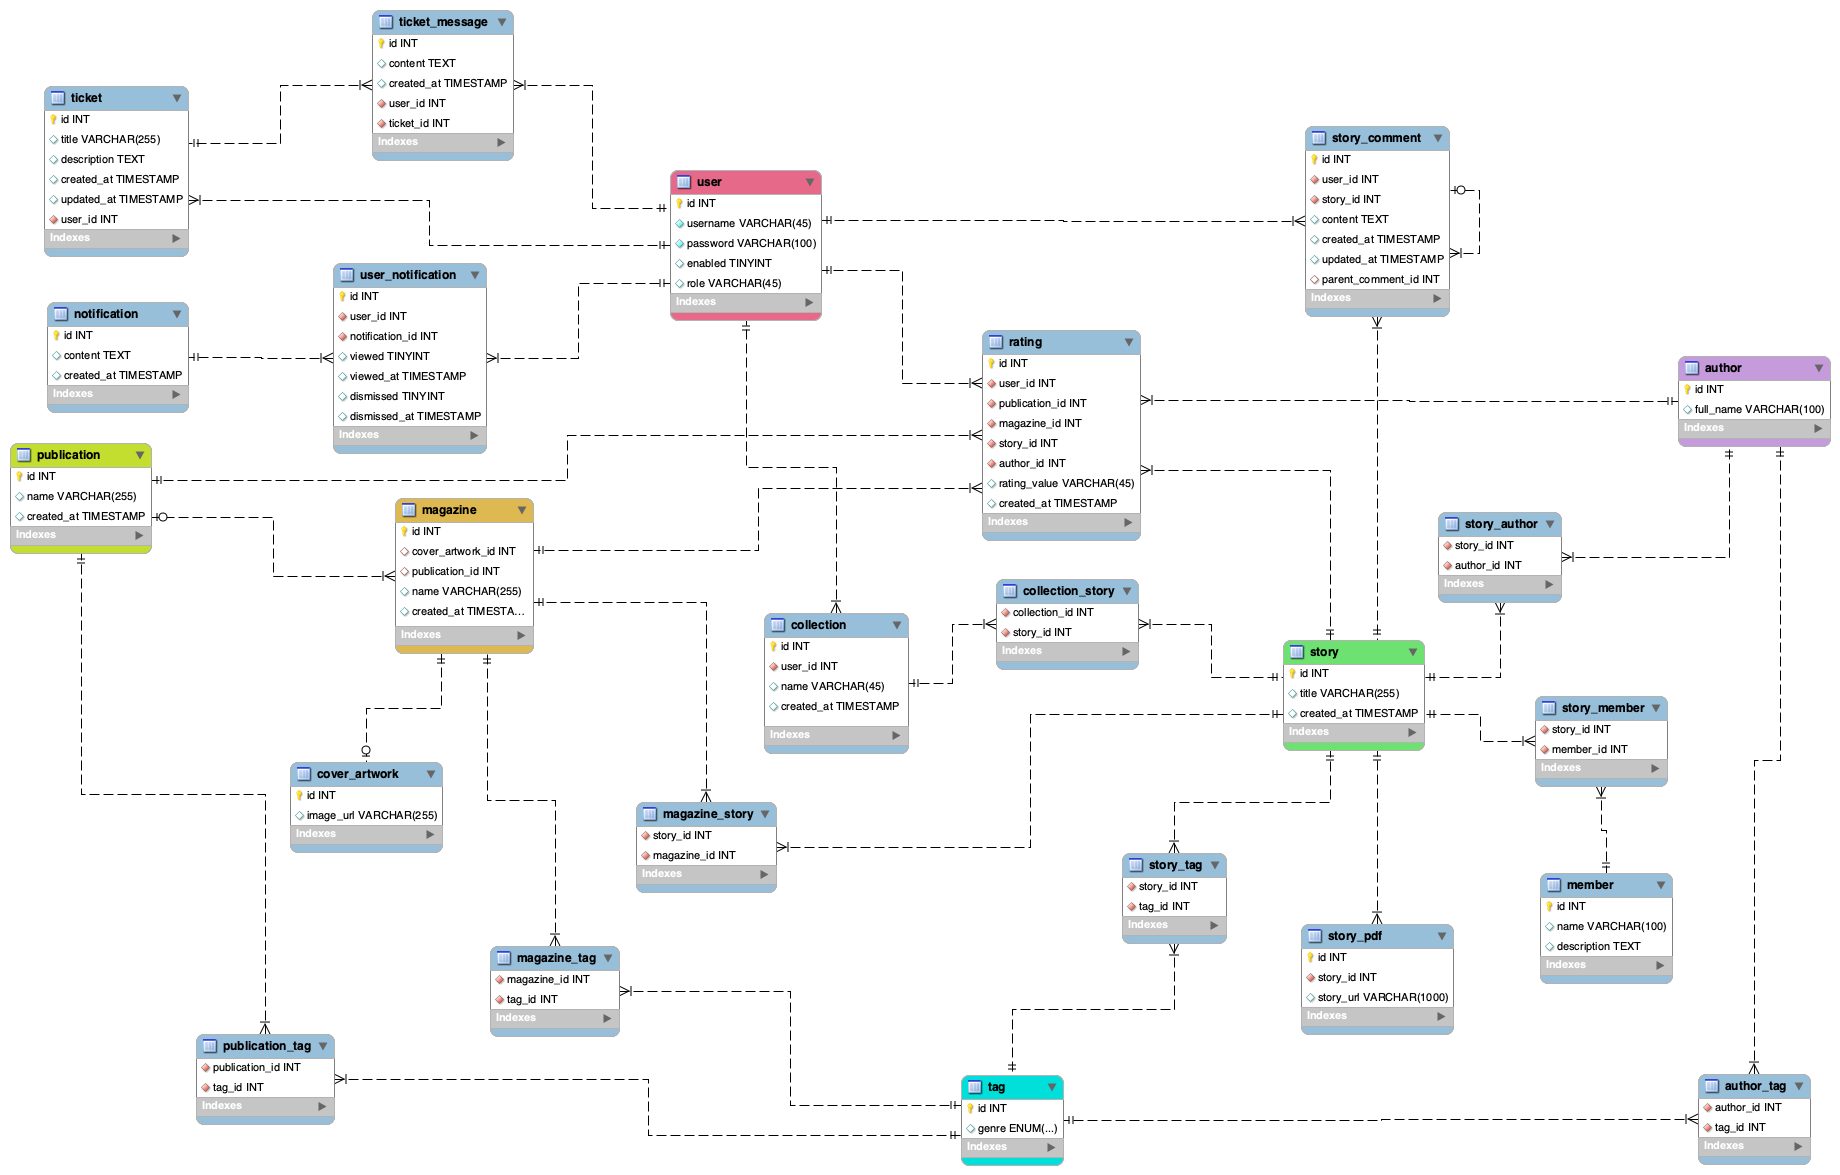
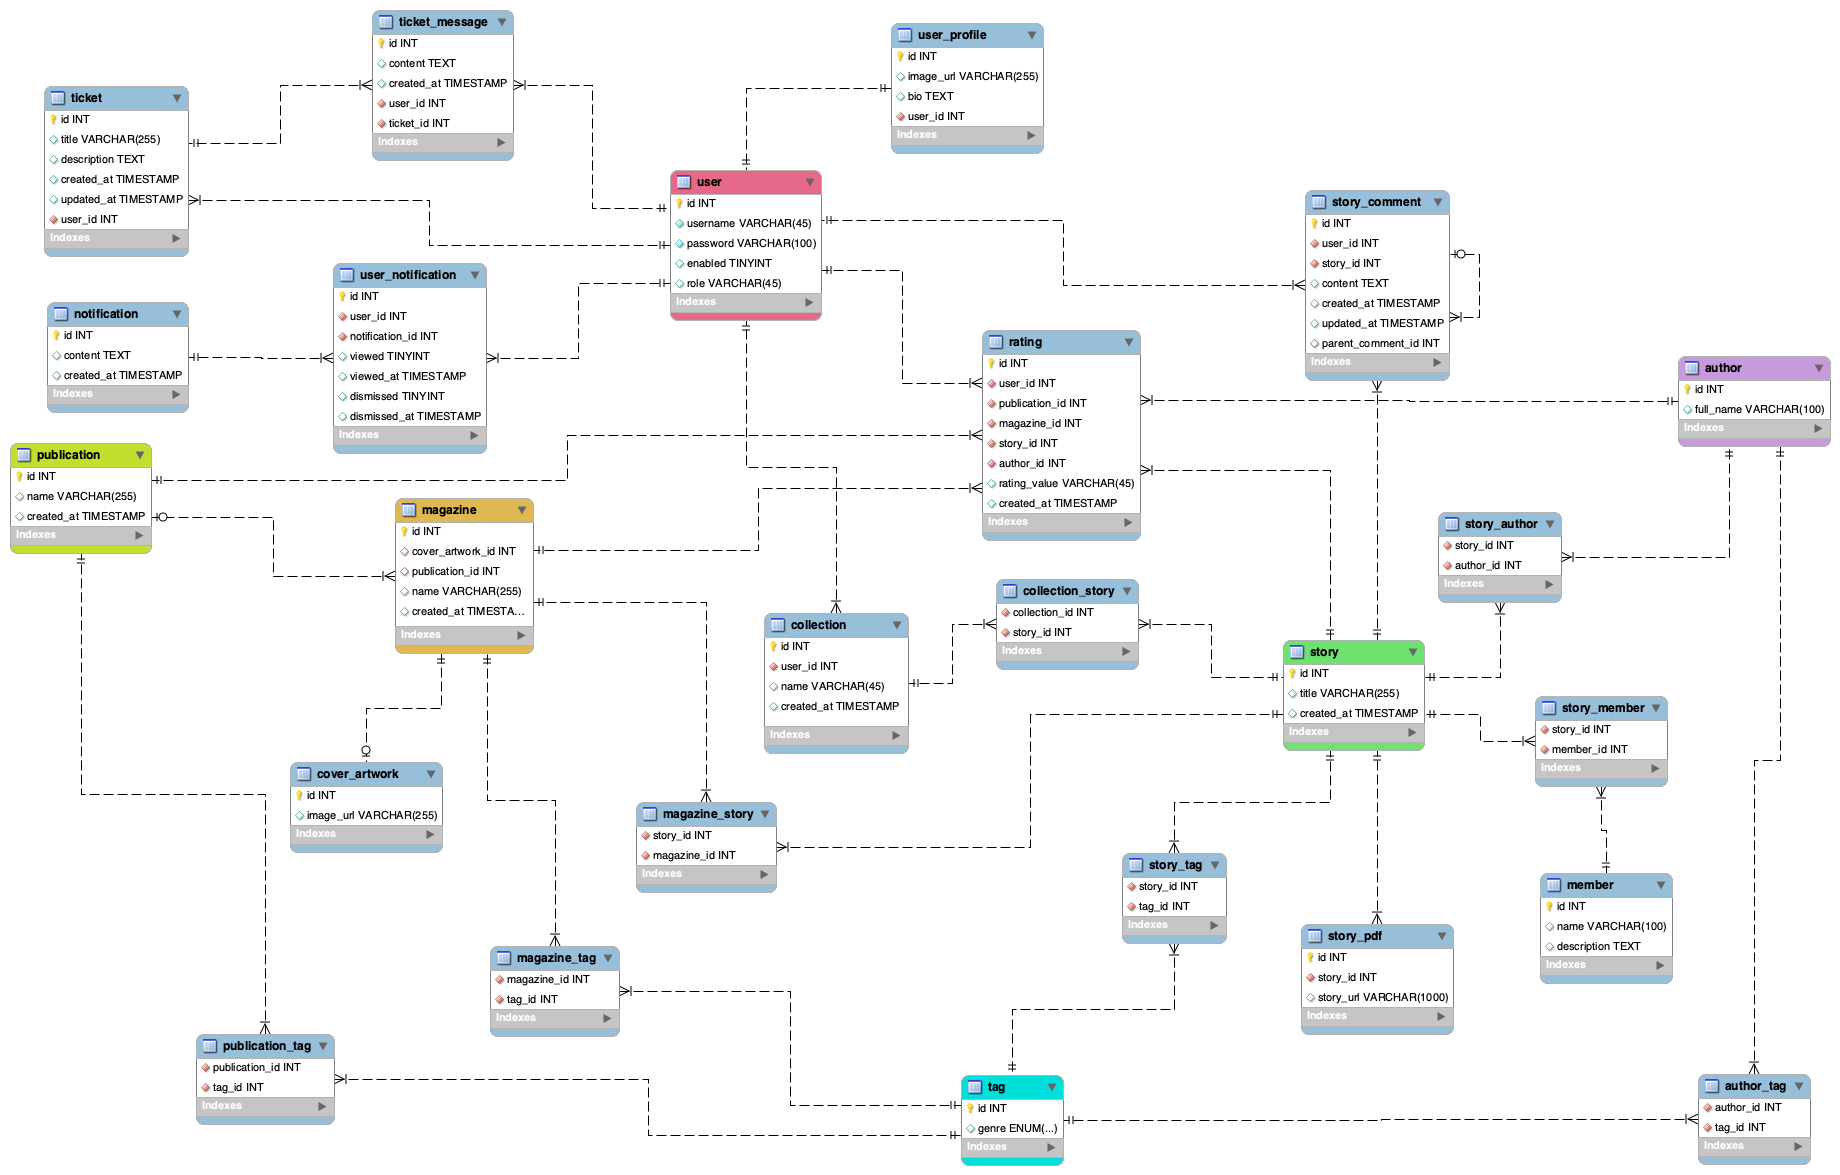
Create new table in database called user_profile and begin work on UserProfile entity class in jpa project

Changed region(s): [[0.7125, 0.0919, 0.8054, 0.337], [0.4647, 0.0, 0.5886, 0.1532]]

diff --git a/JPAThePulps/src/main/java/com/skilldistillery/thepulps/entities/UserProfile.java b/JPAThePulps/src/main/java/com/skilldistillery/thepulps/entities/UserProfile.java
@@ -1,0 +1,17 @@
+package com.skilldistillery.thepulps.entities;
+
+import javax.persistence.Entity;
+import javax.persistence.GeneratedValue;
+import javax.persistence.GenerationType;
+import javax.persistence.Id;
+import javax.persistence.Table;
+
+@Entity
+@Table(name = "user_profile")
+public class UserProfile {
+	
+	@Id
+	@GeneratedValue(strategy = GenerationType.IDENTITY)
+	private int id;
+
+}
